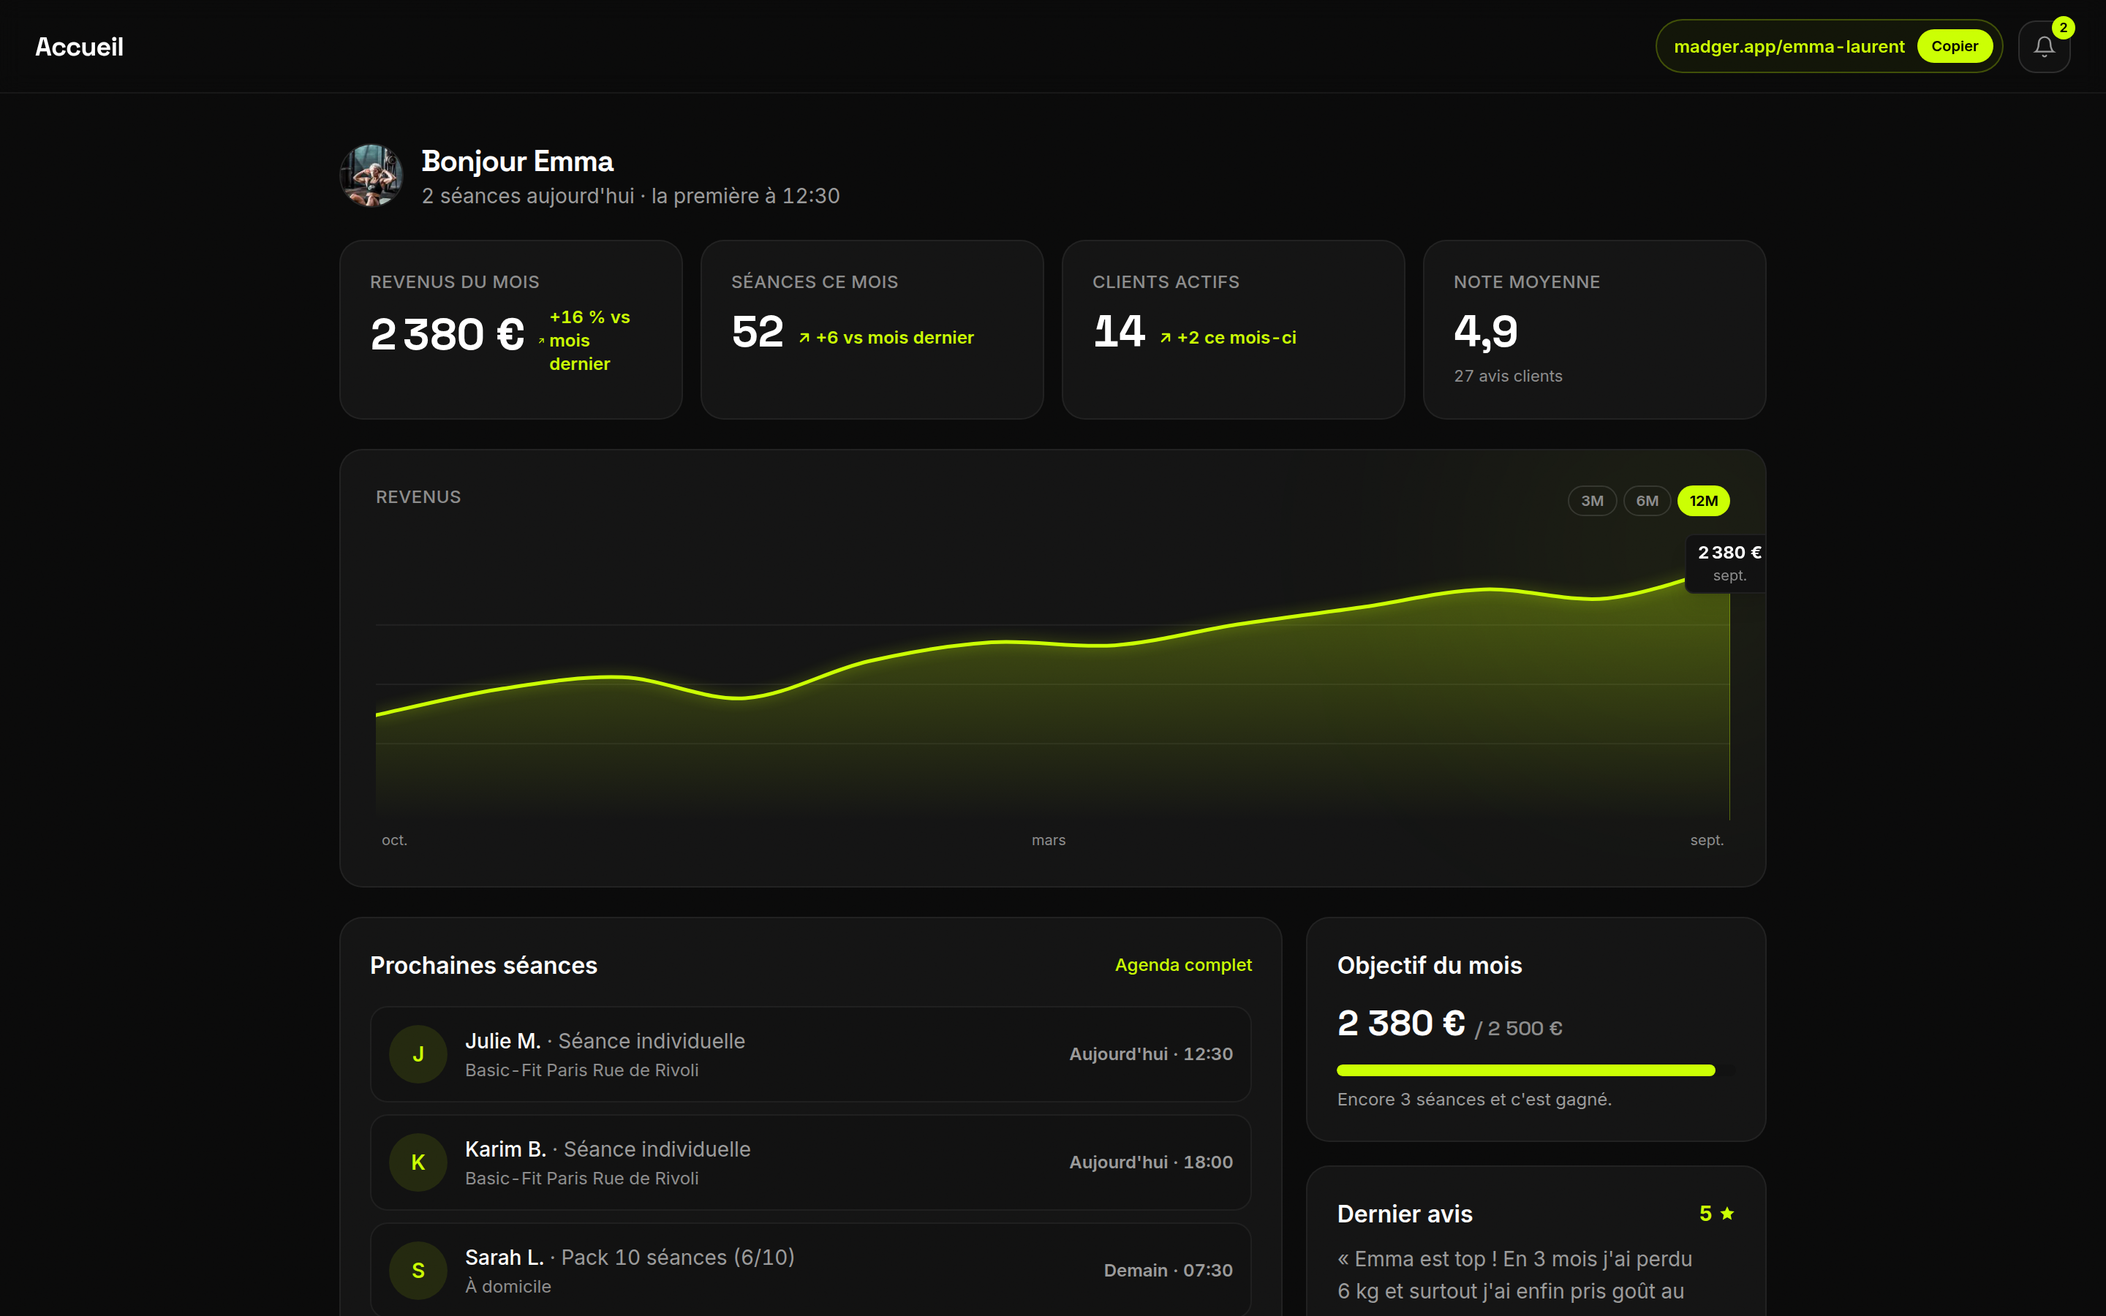
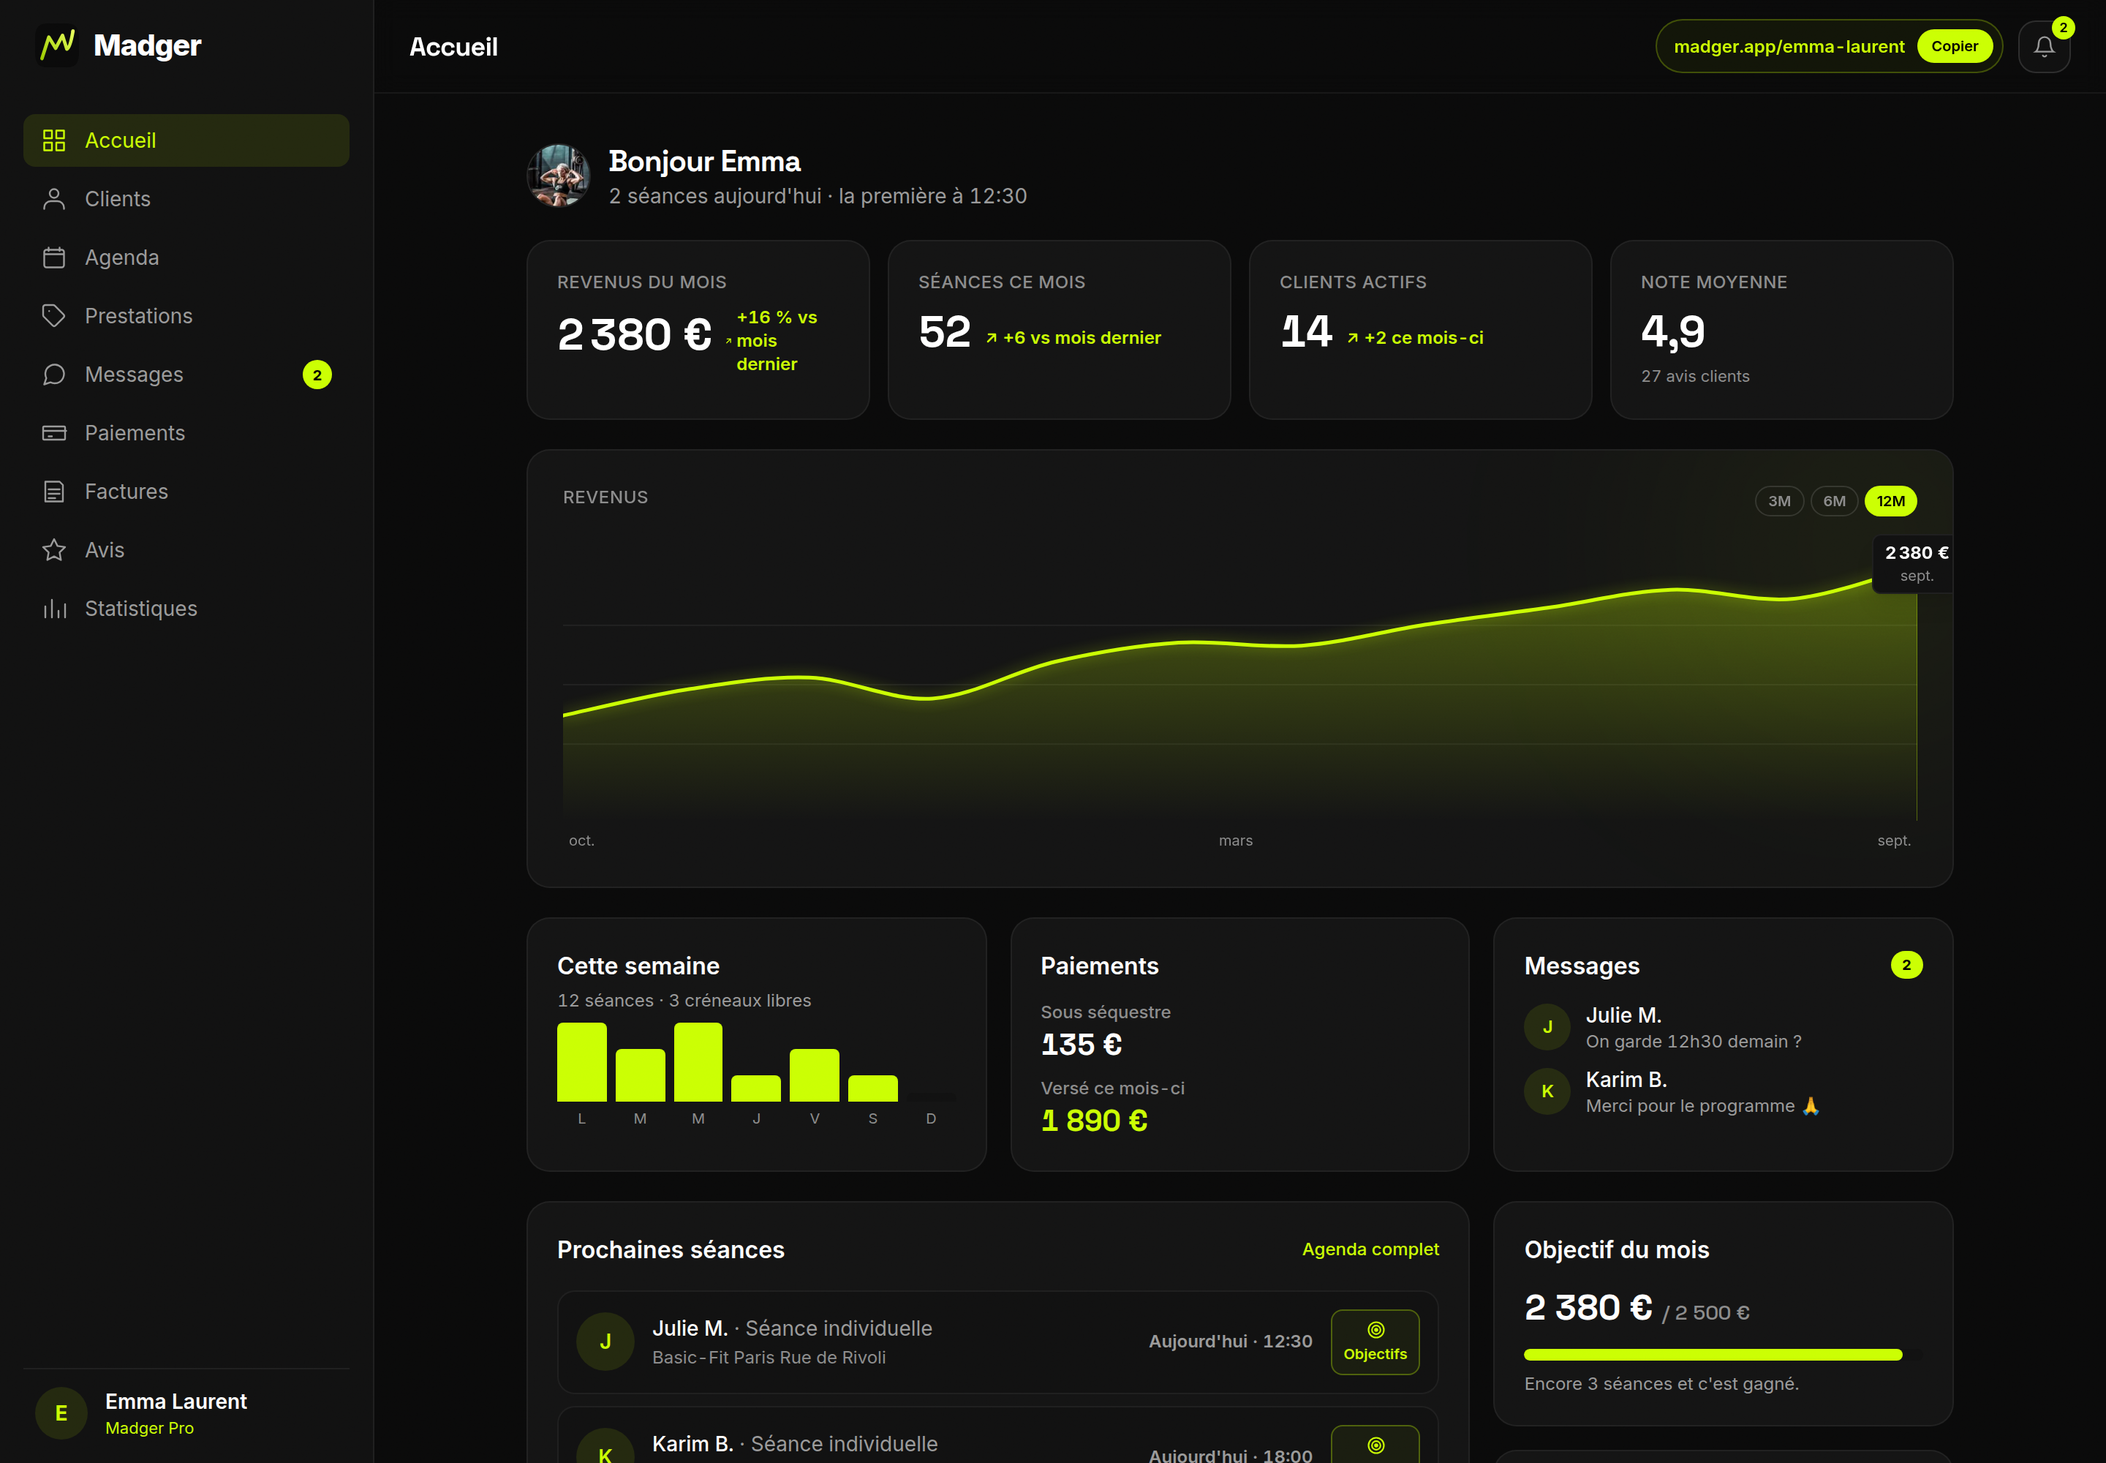
Landing : ancres corrigées, vrai dashboard avec menu, photos dans Messages
- Ancres navbar : « Fonctionnement » vise un écran plus bas dans la
  section animée (le haut était noir avant que le scroll n'anime), et
  « Dashboard » / « Tarifs » gardent une marge sous la navbar flottante
  au lieu de passer dessous
- Capture du dashboard sur ordinateur avec le menu latéral et les blocs
  semaine, paiements, messages ; iPhone agrandi en surimpression
- Démo /exemple/dashboard : sidebar desktop statique identique à la
  vraie, et les mêmes blocs
- Messages : photo de profil à côté du nom (client via son compte
  Google côté coach, coach via sa page publique côté client), initiale
  en repli

Claude-Session: https://claude.ai/code/session_01B2REsqHSfAdeLMvoborAg8

diff --git a/app/exemple/dashboard/page.tsx b/app/exemple/dashboard/page.tsx
@@ -3,7 +3,7 @@ import Link from "next/link";
 import Image from "next/image";
 import { I18nProvider } from "@/lib/i18n/I18nProvider";
 import { getServerDictionary } from "@/lib/i18n/server";
-import { DemoTopbar, DemoMobileNav } from "@/components/exemple/DemoShell";
+import { DemoTopbar, DemoMobileNav, DemoSidebar } from "@/components/exemple/DemoShell";
 import AnimatedStat from "@/components/dashboard/AnimatedStat";
 import AreaChartCard from "@/components/dashboard/charts/AreaChartCard";
 import { StarIcon } from "@/components/ui/icons";
@@ -54,7 +54,9 @@ export default function ExampleDashboardPage() {
 
   return (
     <I18nProvider locale={locale} dict={dict}>
-      <div className="min-h-screen bg-bg text-text-base">
+      <div className="flex min-h-screen bg-bg text-text-base">
+        <DemoSidebar />
+        <div className="min-w-0 flex-1">
         <DemoTopbar />
         <main className="mx-auto w-full max-w-5xl px-4 py-6 pb-28 sm:px-6 sm:py-8">
           {/* Bandeau vitrine, même ADN que /exemple */}
@@ -140,6 +142,52 @@ export default function ExampleDashboardPage() {
               locale="fr-FR"
               mode="months"
             />
+          </div>
+
+          {/* Semaine, paiements, messages : la richesse du vrai accueil */}
+          <div className="mt-4 grid grid-cols-1 gap-4 sm:mt-5 sm:grid-cols-3">
+            <section className="rounded-2xl border border-border bg-bg-card p-5">
+              <h3 className="text-base font-semibold">Cette semaine</h3>
+              <p className="mt-1 text-xs text-text-muted">12 séances · 3 créneaux libres</p>
+              <div className="mt-4 flex h-16 items-end gap-1.5">
+                {[3, 2, 3, 1, 2, 1, 0].map((n, i) => (
+                  <div key={i} className="flex flex-1 flex-col items-center gap-1">
+                    <div
+                      className={`w-full rounded-t ${n > 0 ? "bg-accent" : "bg-bg-elevated"}`}
+                      style={{ height: `${Math.max(6, n * 18)}px` }}
+                    />
+                    <span className="text-[10px] text-text-dim">{"LMMJVSD"[i]}</span>
+                  </div>
+                ))}
+              </div>
+            </section>
+            <section className="rounded-2xl border border-border bg-bg-card p-5">
+              <h3 className="text-base font-semibold">Paiements</h3>
+              <p className="mt-3 text-xs font-medium text-text-dim">Sous séquestre</p>
+              <p className="font-display text-xl font-extrabold">135 €</p>
+              <p className="mt-2 text-xs font-medium text-text-dim">Versé ce mois-ci</p>
+              <p className="font-display text-xl font-extrabold text-accent">1 890 €</p>
+            </section>
+            <section className="rounded-2xl border border-border bg-bg-card p-5">
+              <div className="flex items-center justify-between">
+                <h3 className="text-base font-semibold">Messages</h3>
+                <span className="rounded-full bg-accent px-2 py-0.5 text-[10px] font-bold text-black">2</span>
+              </div>
+              <ul className="mt-3 flex flex-col gap-2">
+                {[
+                  ["Julie M.", "On garde 12h30 demain ?"],
+                  ["Karim B.", "Merci pour le programme 🙏"],
+                ].map(([n, m]) => (
+                  <li key={n} className="flex items-center gap-2.5">
+                    <span className="flex h-8 w-8 shrink-0 items-center justify-center rounded-full bg-accent/10 text-xs font-semibold text-accent">{n.charAt(0)}</span>
+                    <div className="min-w-0">
+                      <p className="truncate text-sm font-medium">{n}</p>
+                      <p className="truncate text-xs text-text-muted">{m}</p>
+                    </div>
+                  </li>
+                ))}
+              </ul>
+            </section>
           </div>
 
           <div className="mt-4 grid grid-cols-1 gap-4 sm:mt-5 lg:grid-cols-3">
@@ -237,6 +285,7 @@ export default function ExampleDashboardPage() {
             </Link>
           </div>
         </main>
+        </div>
         <DemoMobileNav />
       </div>
     </I18nProvider>

diff --git a/components/exemple/DemoShell.tsx b/components/exemple/DemoShell.tsx
@@ -14,6 +14,59 @@ const TABS = [
   { label: "Messages", d: "M21 11.5a8.38 8.38 0 01-.9 3.8 8.5 8.5 0 01-7.6 4.7 8.38 8.38 0 01-3.8-.9L3 21l1.9-5.7a8.38 8.38 0 01-.9-3.8 8.5 8.5 0 014.7-7.6 8.38 8.38 0 013.8-.9h.5a8.48 8.48 0 018 8v.5z" },
 ];
 
+
+// Sidebar desktop, copie statique de la vraie (mêmes entrées, même
+// surlignage accent sur Accueil, profil en bas).
+const SIDE = [
+  { label: "Accueil", active: true, d: "M3 3h7v7H3V3zm0 11h7v7H3v-7zm11-11h7v7h-7V3zm0 11h7v7h-7v-7z" },
+  { label: "Clients", d: "M16 7a4 4 0 11-8 0 4 4 0 018 0zM3 21v-1a6 6 0 016-6h6a6 6 0 016 6v1" },
+  { label: "Agenda", d: "M7 3v3m10-3v3M3 9h18M5 5h14a2 2 0 012 2v12a2 2 0 01-2 2H5a2 2 0 01-2-2V7a2 2 0 012-2z" },
+  { label: "Prestations", d: "M20.6 13.4l-7.2 7.2a2 2 0 01-2.8 0l-8.1-8.1A2 2 0 012 11.2V4a2 2 0 012-2h7.2a2 2 0 011.4.6l8 8a2 2 0 010 2.8zM7.5 7.5h.01" },
+  { label: "Messages", badge: 2, d: "M21 11.5a8.38 8.38 0 01-.9 3.8 8.5 8.5 0 01-7.6 4.7 8.38 8.38 0 01-3.8-.9L3 21l1.9-5.7a8.38 8.38 0 01-.9-3.8 8.5 8.5 0 014.7-7.6 8.38 8.38 0 013.8-.9h.5a8.48 8.48 0 018 8v.5z" },
+  { label: "Paiements", d: "M3 6h18a1 1 0 011 1v10a1 1 0 01-1 1H3a1 1 0 01-1-1V7a1 1 0 011-1zm0 4h20M7 15h3" },
+  { label: "Factures", d: "M7 3h10l3 3v15H4V3h3zm0 7h10M7 14h10M7 18h6" },
+  { label: "Avis", d: "M12 2l3.09 6.26L22 9.27l-5 4.87 1.18 6.88L12 17.77l-6.18 3.25L7 14.14 2 9.27l6.91-1.01L12 2z" },
+  { label: "Statistiques", d: "M4 20V10m6 10V4m6 16v-6m6 6V8" },
+];
+
+export function DemoSidebar() {
+  return (
+    <aside className="sticky top-0 hidden h-screen w-64 shrink-0 flex-col overflow-y-auto border-r border-border bg-bg-elevated p-4 md:flex">
+      <div className="mb-8 flex items-center gap-2.5 px-2">
+        <MadgerLogo size={30} />
+        <span className="text-xl font-extrabold tracking-tight text-text-base">Madger</span>
+      </div>
+      <nav className="flex flex-1 flex-col gap-1">
+        {SIDE.map((item) => (
+          <span
+            key={item.label}
+            className={`flex items-center gap-3 rounded-lg px-3 py-2 text-sm ${
+              item.active ? "bg-accent/10 text-accent" : "text-text-muted"
+            }`}
+          >
+            <svg width="18" height="18" viewBox="0 0 24 24" fill="none" stroke="currentColor" strokeWidth="1.6" strokeLinecap="round" strokeLinejoin="round" className="shrink-0">
+              <path d={item.d} />
+            </svg>
+            <span className="truncate">{item.label}</span>
+            {item.badge && (
+              <span className="ml-auto flex h-5 min-w-5 items-center justify-center rounded-full bg-accent px-1.5 text-[10px] font-bold text-black">
+                {item.badge}
+              </span>
+            )}
+          </span>
+        ))}
+      </nav>
+      <div className="mt-4 flex items-center gap-3 border-t border-border pt-3 px-2">
+        <span className="flex h-9 w-9 items-center justify-center rounded-full bg-accent/10 text-sm font-bold text-accent">E</span>
+        <div className="min-w-0">
+          <p className="truncate text-sm font-semibold text-text-base">Emma Laurent</p>
+          <p className="text-[11px] text-accent">Madger Pro</p>
+        </div>
+      </div>
+    </aside>
+  );
+}
+
 export function DemoTopbar() {
   return (
     <header className="sticky top-0 z-10 flex h-16 items-center gap-4 border-b border-border bg-bg/80 px-4 backdrop-blur sm:px-6">

diff --git a/components/CoachDashboard.tsx b/components/CoachDashboard.tsx
@@ -18,7 +18,7 @@ export default function CoachDashboard() {
         style={{ background: "radial-gradient(ellipse 70% 50% at 50% 55%, rgba(203,255,3,0.05), transparent 70%)" }}
       />
 
-      <div id="dashboard" className="mx-auto max-w-6xl px-5 sm:px-6">
+      <div id="dashboard" className="mx-auto max-w-6xl scroll-mt-28 px-5 sm:px-6">
         <motion.div
           initial={{ opacity: 0, y: 20, filter: "blur(8px)" }}
           whileInView={{ opacity: 1, y: 0, filter: "blur(0px)" }}
@@ -77,7 +77,7 @@ export default function CoachDashboard() {
                     src="/landing/dashboard-desktop.png"
                     alt="Le dashboard Madger : revenus du mois, séances, clients, note et prochaines séances"
                     width={1440}
-                    height={900}
+                    height={1000}
                     sizes="(max-width: 1024px) 90vw, 896px"
                     className="block w-full"
                   />
@@ -91,7 +91,7 @@ export default function CoachDashboard() {
           </div>
 
           {/* iPhone en surimpression : la même app, dans la poche */}
-          <div className="absolute -bottom-6 right-0 hidden w-[190px] lg:block xl:right-6">
+          <div className="absolute -bottom-10 -right-2 hidden w-[250px] lg:block xl:right-0">
             <div
               className="rounded-[34px] p-[3px]"
               style={{ background: "linear-gradient(145deg,#3d3d40,#1c1c1e 40%,#0c0c0d 70%,#2a2a2c)", boxShadow: "0 30px 70px rgba(0,0,0,0.8)" }}
@@ -103,7 +103,7 @@ export default function CoachDashboard() {
                     alt="Le dashboard Madger sur mobile, avec sa navigation"
                     width={1179}
                     height={2556}
-                    sizes="190px"
+                    sizes="250px"
                     className="block w-full"
                   />
                 </div>

diff --git a/components/messaging/ConversationList.tsx b/components/messaging/ConversationList.tsx
@@ -13,12 +13,15 @@ export default function ConversationList({
   perspective,
   basePath,
   previews = {},
+  avatars = {},
 }: {
   conversations: Conversation[];
   perspective: "coach" | "client";
   basePath: string; // "/dashboard/messages" ou "/messages"
   // Dernier message par conversation : { corps, envoyé par moi ? }.
   previews?: Record<string, { body: string; mine: boolean }>;
+  // Photo de l'autre participant, par conversation (repli : initiale).
+  avatars?: Record<string, string>;
 }) {
   const { t, locale } = useI18n();
   const loc = locale === "fr" ? "fr-FR" : "en-GB";
@@ -101,9 +104,19 @@ export default function ConversationList({
               aria-label={unread ? `${name} · ${t("messages.unread")}` : name}
               className={`flex items-center gap-3 p-3 ${interactiveCardClass}`}
             >
-              <span className="flex h-11 w-11 shrink-0 items-center justify-center rounded-full bg-accent/10 text-sm font-semibold text-accent">
-                {initial}
-              </span>
+              {avatars[c.id] ? (
+                // eslint-disable-next-line @next/next/no-img-element
+                <img
+                  src={avatars[c.id]}
+                  alt=""
+                  referrerPolicy="no-referrer"
+                  className="h-11 w-11 shrink-0 rounded-full border border-border-strong object-cover"
+                />
+              ) : (
+                <span className="flex h-11 w-11 shrink-0 items-center justify-center rounded-full bg-accent/10 text-sm font-semibold text-accent">
+                  {initial}
+                </span>
+              )}
               <div className="min-w-0 flex-1">
                 <span
                   className={`block truncate text-sm ${

diff --git a/app/dashboard/messages/page.tsx b/app/dashboard/messages/page.tsx
@@ -1,6 +1,8 @@
 import Topbar from "@/components/dashboard/Topbar";
 import ConversationList from "@/components/messaging/ConversationList";
 import { createClient } from "@/lib/supabase/server";
+import { createClient as createAdmin } from "@supabase/supabase-js";
+import { SUPABASE_URL } from "@/lib/supabase/config";
 import { getServerDictionary } from "@/lib/i18n/server";
 import type { Conversation } from "@/lib/messaging/types";
 
@@ -52,6 +54,28 @@ export default async function CoachMessagesPage() {
     user?.id
   );
 
+  // Photo de profil du client : elle vit dans Auth (compte Google → avatar),
+  // pas dans la base. Lecture via l'API admin, best-effort, initiale sinon.
+  const avatars: Record<string, string> = {};
+  const serviceKey = process.env.SUPABASE_SERVICE_ROLE_KEY;
+  if (serviceKey && (data ?? []).length > 0) {
+    const admin = createAdmin(SUPABASE_URL, serviceKey);
+    await Promise.all(
+      (data ?? []).slice(0, 40).map(async (c) => {
+        try {
+          const { data: u } = await admin.auth.admin.getUserById(
+            c.client_id as string
+          );
+          const meta = (u?.user?.user_metadata ?? {}) as Record<string, unknown>;
+          const url = (meta.avatar_url || meta.picture) as string | undefined;
+          if (url) avatars[c.id as string] = url;
+        } catch {
+          /* pas de photo : initiale */
+        }
+      })
+    );
+  }
+
   return (
     <>
       <Topbar title={dict.messages.title} />
@@ -61,6 +85,7 @@ export default async function CoachMessagesPage() {
           perspective="coach"
           basePath="/dashboard/messages"
           previews={previews}
+        avatars={avatars}
         />
       </main>
     </>

diff --git a/app/messages/page.tsx b/app/messages/page.tsx
@@ -65,6 +65,27 @@ export default async function ClientMessagesPage() {
     user?.id
   );
 
+  // Photo du coach, depuis la vue publique (avatar_url), par conversation.
+  const avatars: Record<string, string> = {};
+  {
+    const coachIds = Array.from(
+      new Set((data ?? []).map((c) => c.coach_id as string))
+    );
+    if (coachIds.length) {
+      const { data: coaches } = await supabase
+        .from("public_coaches")
+        .select("id, avatar_url")
+        .in("id", coachIds);
+      const byId = new Map(
+        (coaches ?? []).map((c) => [c.id as string, c.avatar_url as string | null])
+      );
+      for (const c of data ?? []) {
+        const url = byId.get(c.coach_id as string);
+        if (url) avatars[c.id as string] = url;
+      }
+    }
+  }
+
   return (
     <main className="mx-auto w-full max-w-2xl px-4 py-8 sm:px-6">
       <h1 className="mb-5 text-xl font-extrabold tracking-tight text-text-base">
@@ -75,6 +96,7 @@ export default async function ClientMessagesPage() {
         perspective="client"
         basePath="/messages"
         previews={previews}
+        avatars={avatars}
       />
     </main>
   );

diff --git a/components/HeroScrollExperience.tsx b/components/HeroScrollExperience.tsx
@@ -425,10 +425,18 @@ export default function HeroScrollExperience({ launched = false }: { launched?: 
       ══════════════════════════════════════════════════════ */}
       <section
         ref={sectionRef}
-        id="fonctionnement"
         className="h-[350vh] lg:h-[500vh]"
         style={{ position: "relative" }}
       >
+        {/* Point d'ancrage « Fonctionnement » : un écran PLUS BAS que le
+            début de la section. En haut, l'animation pilotée par le scroll
+            n'a encore rien affiché (écran noir) ; ici le premier écran du
+            téléphone est déjà en place. */}
+        <span
+          id="fonctionnement"
+          aria-hidden
+          style={{ position: "absolute", top: "100vh", left: 0, width: 1, height: 1 }}
+        />
         <div
           ref={stickyRef}
           style={{

diff --git a/components/Pricing.tsx b/components/Pricing.tsx
@@ -39,7 +39,7 @@ export default function Pricing({ launched = false }: { launched?: boolean }) {
   return (
     <section
       id="tarifs"
-      className="py-20 sm:py-28 relative overflow-hidden"
+      className="py-20 sm:py-28 relative overflow-hidden scroll-mt-6"
       style={{
         background: "linear-gradient(180deg, transparent, rgba(255,255,255,0.01), transparent)",
       }}
